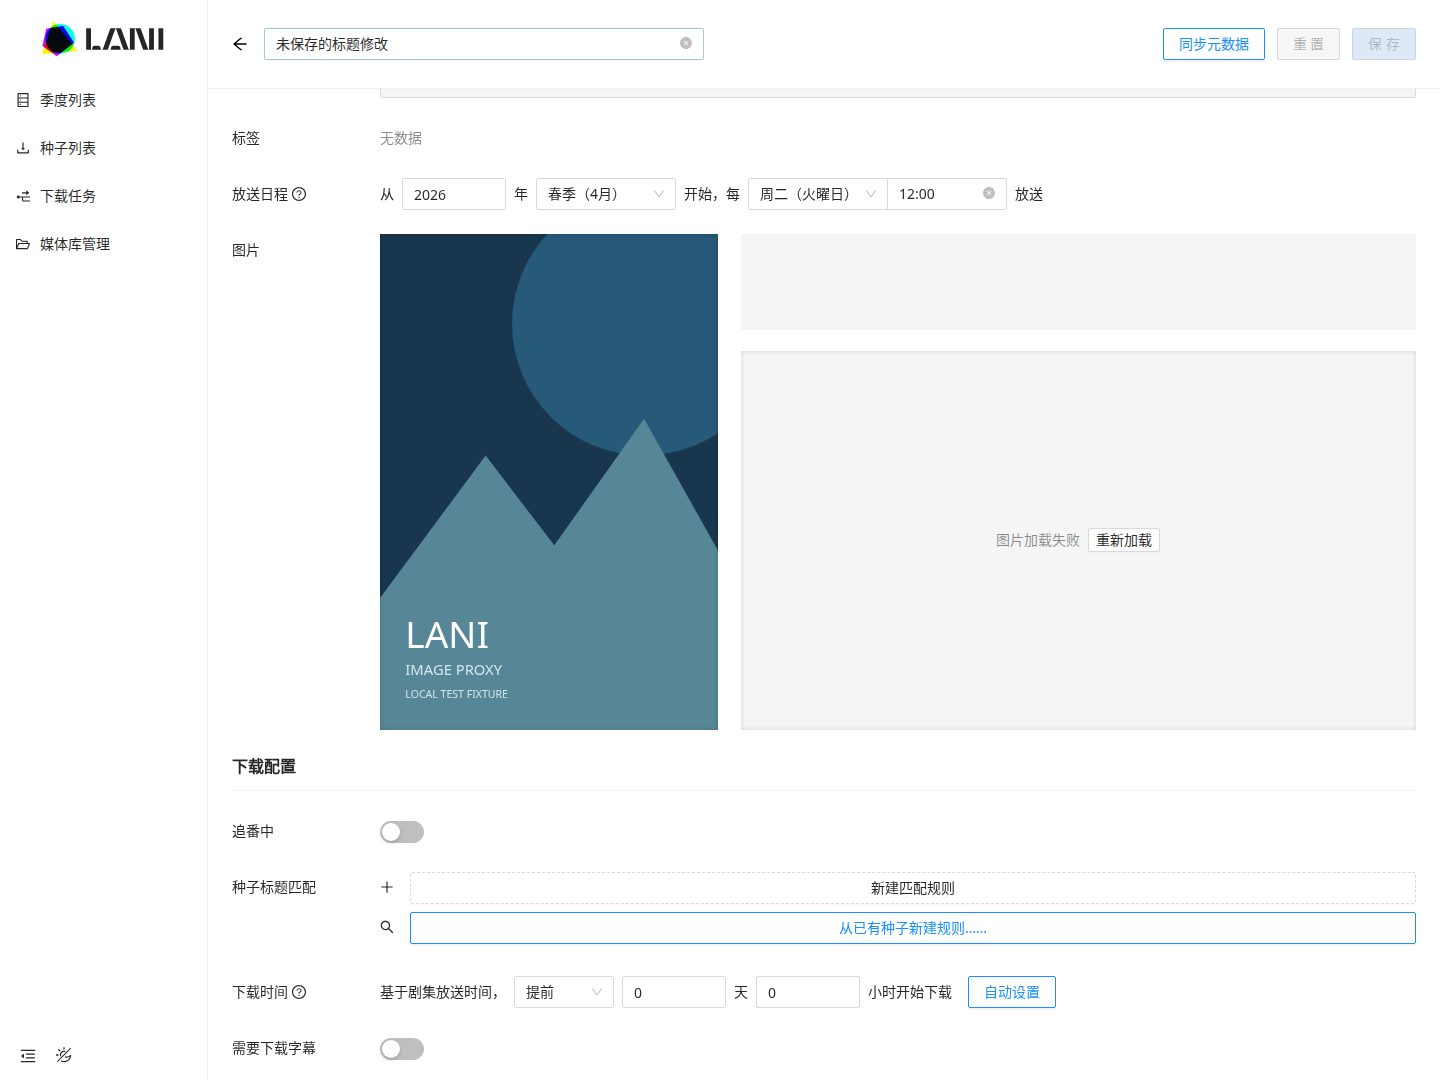
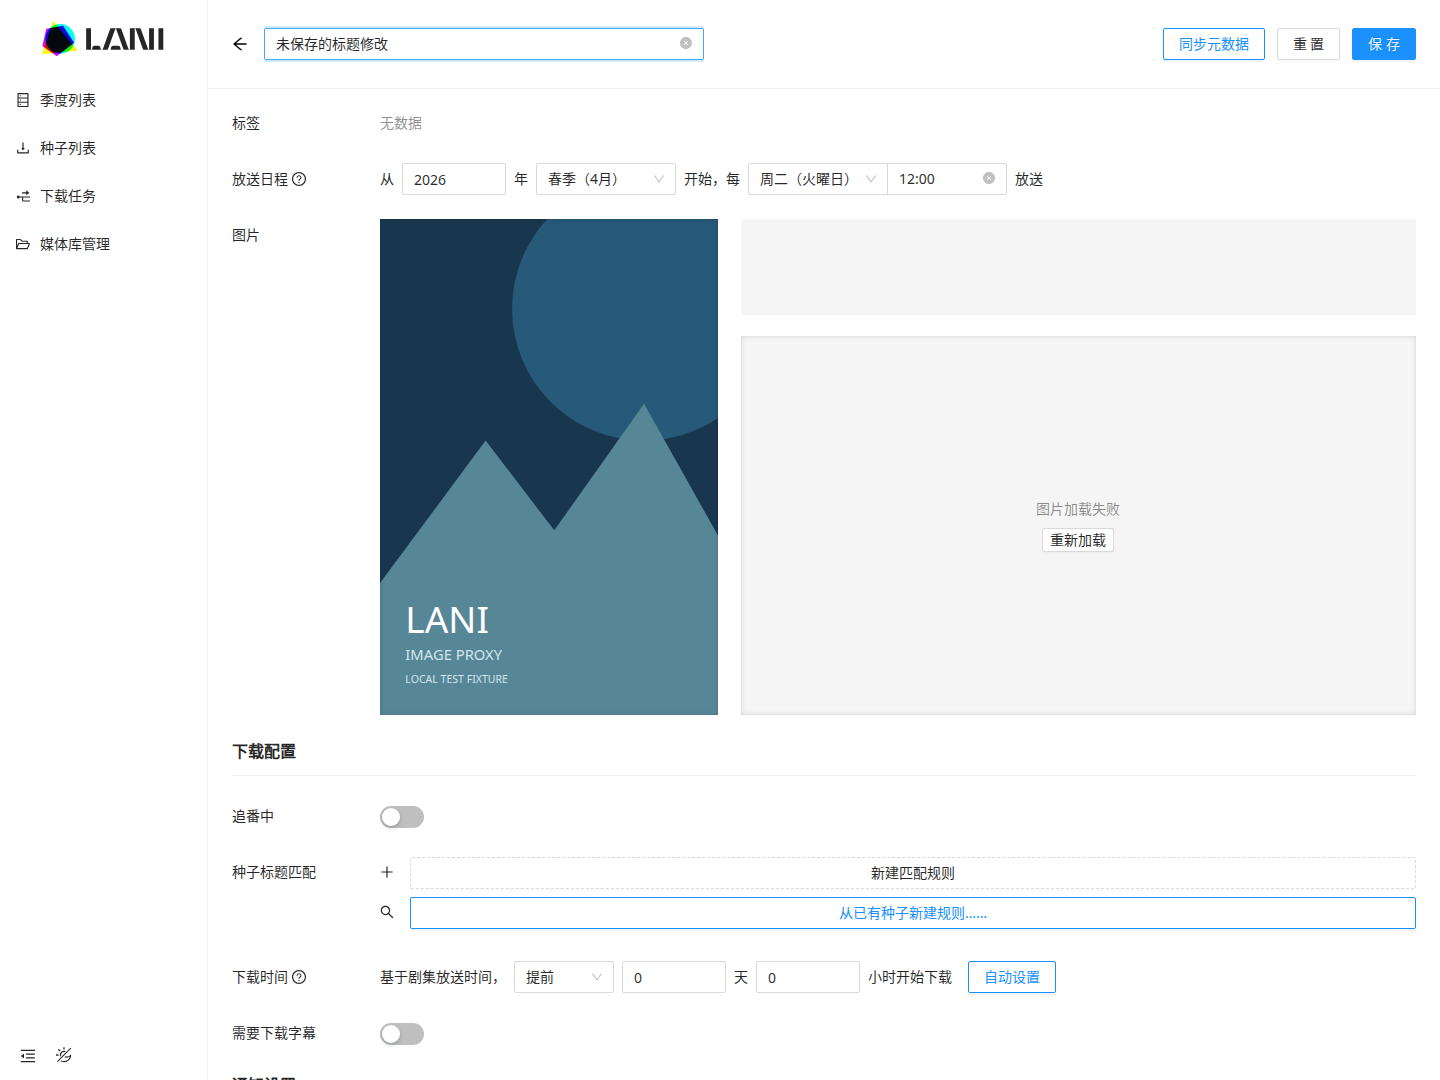
fix(admin): stack image error message and retry button

diff --git a/apps/admin/src/components/StoredImage/index.module.less b/apps/admin/src/components/StoredImage/index.module.less
@@ -17,6 +17,7 @@
   position: absolute;
   inset: 0;
   display: flex;
+  flex-direction: column;
   gap: 8px;
   align-items: center;
   justify-content: center;
